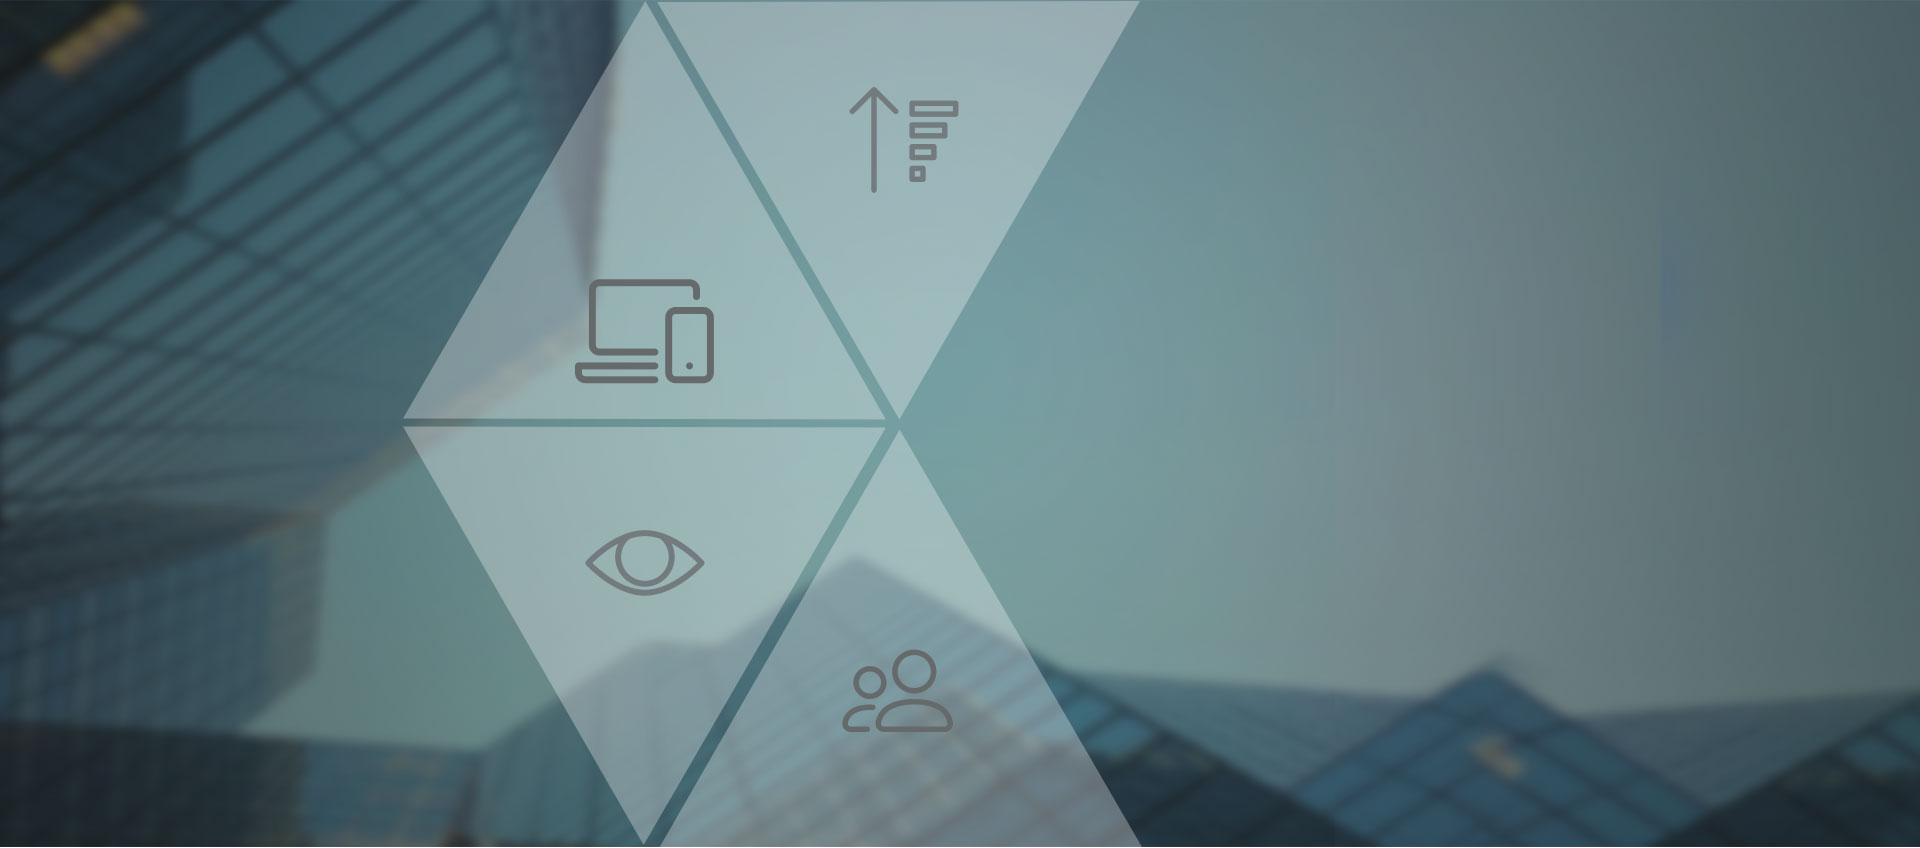
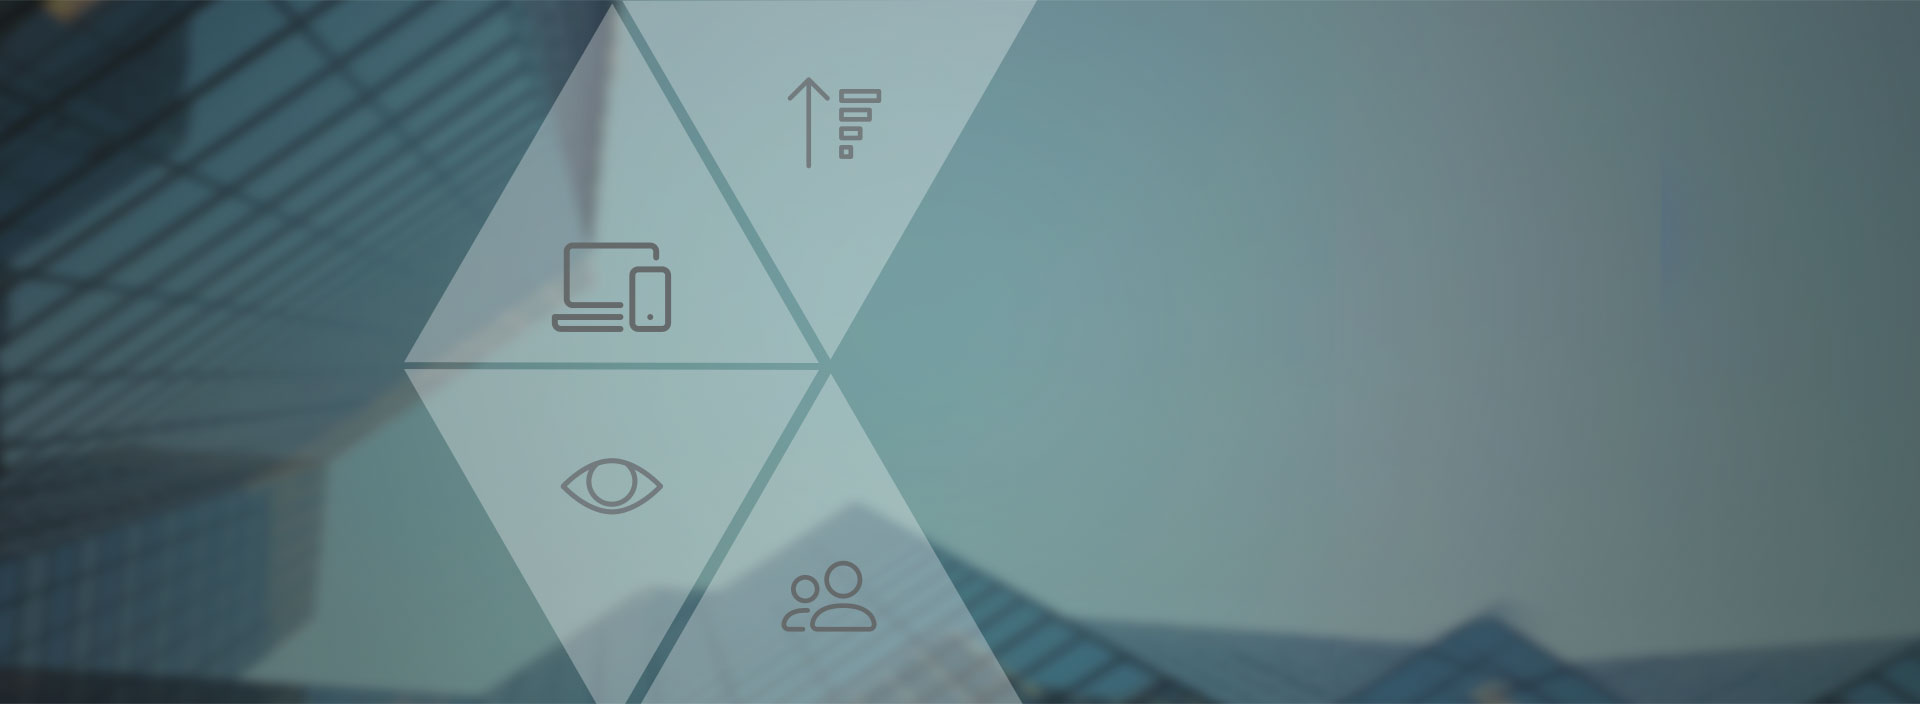
登录

diff --git a/src/res/css/index.css b/src/res/css/index.css
@@ -6,19 +6,19 @@
 #section input::-webkit-input-placeholder{color:#b2b2b2;}
 *{box-sizing: border-box;}
 body, th, td, button, input, select, textarea{font-family: "Microsoft Yahei", "Hiragino Sans GB", "Helvetica Neue", Helvetica, tahoma, arial, Verdana, sans-serif, "WenQuanYi Micro Hei", "\5B8B\4F53"}
-body{position: relative}
-#header{height: 94px;line-height: 94px;}
+body{position: relative;}
+#header{height: 94px;line-height: 94px;background: #fff;}
 .container{width: 1100px;margin: 0 auto;}
 #header #logo{width: 417px;}
 #header .btn{margin-top: 56px;}
 #header .btn li{display: inline-block}
 #header .btn a{font-size: 12px;color: #b3b3b3;margin-top: 98px;}
 #header .btn .line{width: 1px;background: #b3b3b3;height: 10px;display: inline-block;margin: 0 10px;}
-#section{height: 847px;background: url("../img/bg.jpg") no-repeat center;width: 100%;min-width: 1100px;background-size: cover}
-#section .container{position: relative}
-#section .boxBig{position: absolute;top: 170px;right: 0;text-align: center;}
+#section{height: 700px;width: 100%;min-width: 1100px;background-size: cover;background: url("../img/bg.jpg") no-repeat center;}
+#section .container{position: relative;height: 700px;}
+#section .boxBig{position: absolute;top: 50%;transform:translateY(-50%);right: 0;text-align: center;}
 #section .boxBig>img{margin-bottom: 30px;}
-#section .boxSmall{width: 346px;height: 390px;background: #fff;border-radius: 6px;overflow: hidden}
+#section .boxSmall{width: 346px;height: 390px;background: #fff;border-radius: 6px;overflow: hidden;box-shadow: 0 9px 14px 6px rgba(0, 0, 0, 0.25)}
 #section .title{font-size:18px;color: #0088e1;width: 100%;text-align: center;margin-bottom: 32px;font-weight: 600;height: 64px;line-height: 64px;background: #fcfcfc;border-bottom: 1px solid #dcdcdc}
 #section .title span{border-bottom: 2px solid #0088e1;padding-bottom: 18px;
 }

diff --git a/src/index.html b/src/index.html
@@ -54,15 +54,6 @@
         Copyright© 2014-2017 XXXXXXXX All Right Reserved.
     </div>
 </div>
-<script src="./res/js/icheck.min.js"></script>
-<script>
-    $(document).ready(function () {
-        $('input').iCheck({
-            checkboxClass: 'icheckbox_square-blue',
-            increaseArea: '20%' // optional
-        });
-    });
-</script>
 <script>
     $('.username input,.password input').focus(function () {
         $('.active').removeClass('active');
